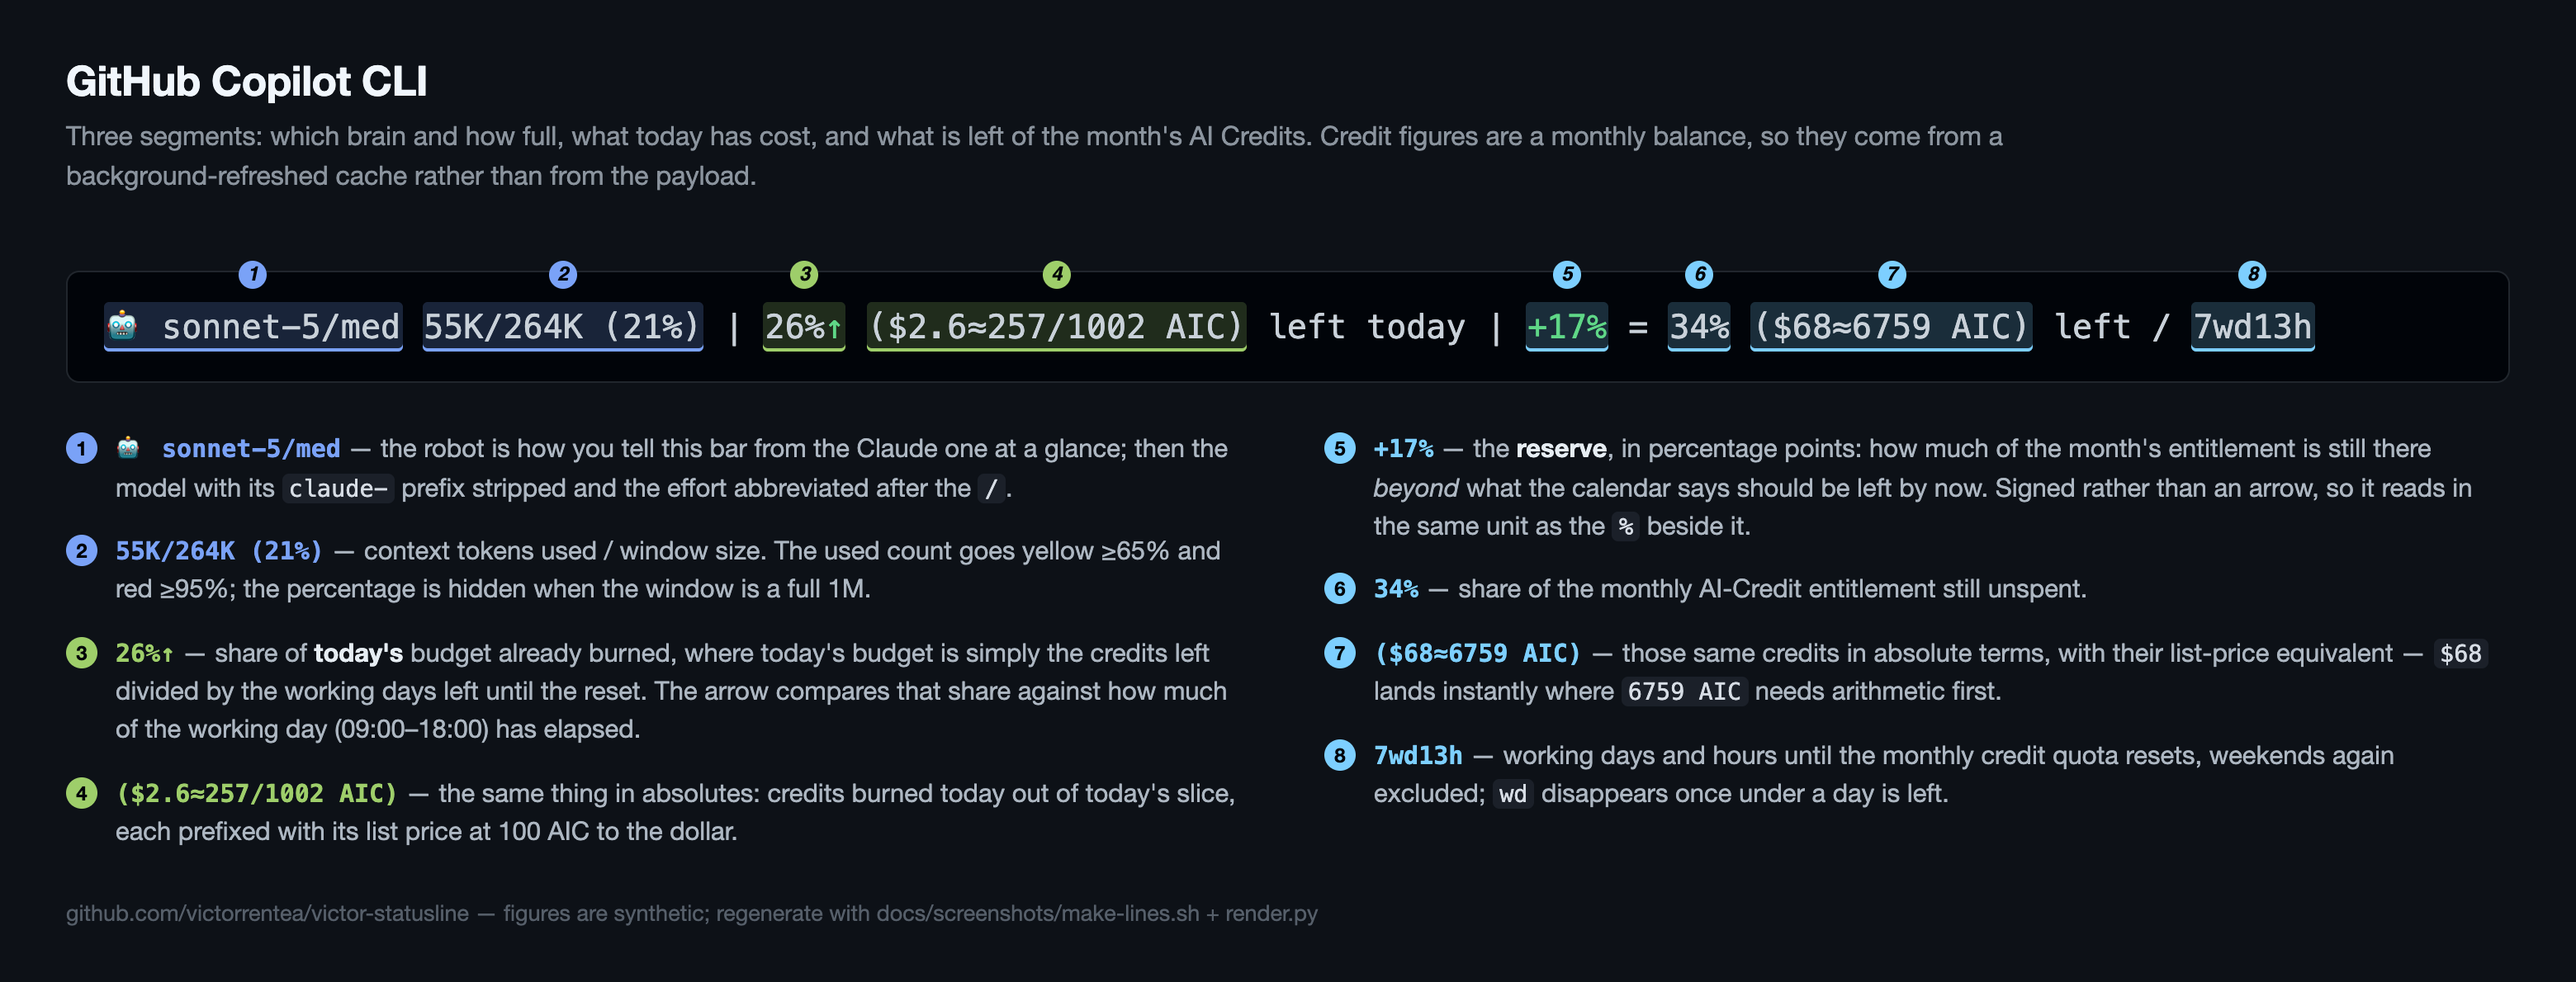
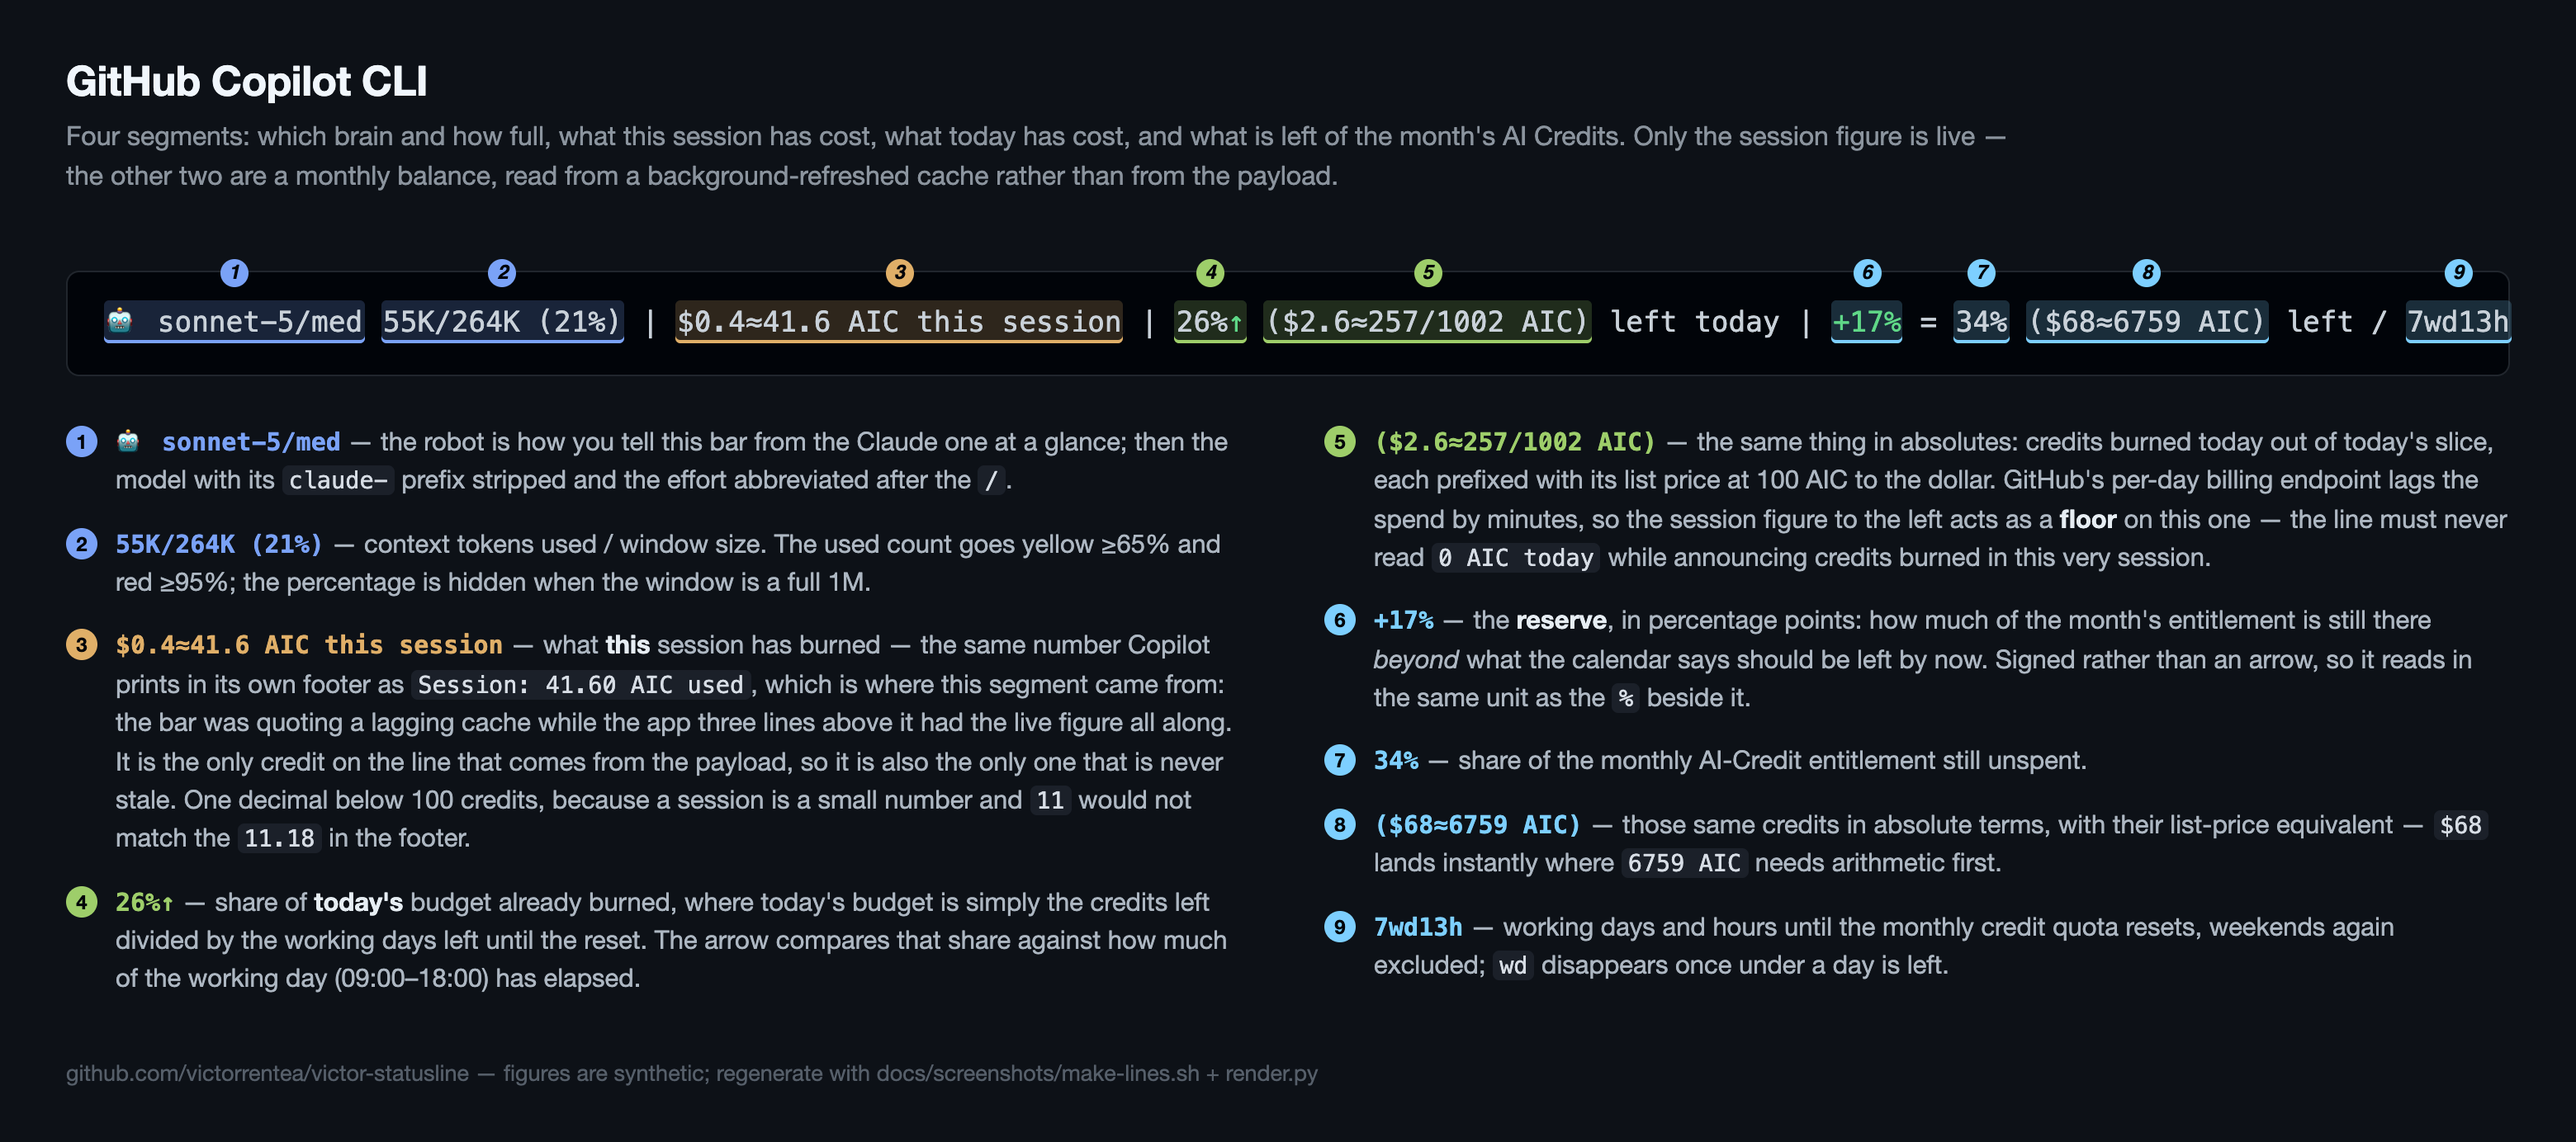
copilot: show this session's AI-Credit burn on the bar
Copilot CLI has been putting the session's own credit spend in the
status-line payload all along (`ai_used.total_nano_aiu`, the number it
prints in its own footer as "Session: 11.18 AIC used") and the bar was
throwing it away — so the bar could sit at "0 AIC today" while the app
three lines above it showed eleven credits burned.

It is the only LIVE credit figure available to the line: the two
segments after it come from a cache that quota-refresh.sh only fills
while a session is rendering, plus GitHub's per-day billing endpoint,
which lags the spend by minutes. So the session figure also acts as a
floor on "today" — guarded by the session's wall-clock age, since a
session running since yesterday would otherwise book yesterday's
credits onto today.

Credits below 100 now print one decimal (both here and in the "today"
absolutes): a session is a small number, and rounding 11.18 to "11"
would make the bar disagree with the footer it is quoting.

While regenerating the screenshots: the longer line ran off the right
edge of copilot.png, clipped with no warning, so render.py now sizes
the bar's type to fit the card instead of hardcoding 20px. That
re-render also picked up a genuinely stale Claude picture — the
"expiring" row's 300K had been blue since the colour ramp changed,
while the note beside it already said orange.

diff --git a/docs/screenshots/render.py b/docs/screenshots/render.py
@@ -17,6 +17,7 @@ import html
 import pathlib
 import re
 import sys
+import unicodedata
 
 HERE = pathlib.Path(__file__).resolve().parent
 LINES = HERE / "lines"
@@ -81,6 +82,12 @@ def parse_ansi(raw):
 # --- what each field means -------------------------------------------------
 # (regex, colour-group, explanation). The colour group ties a field to its
 # segment, so the eye can see at a glance which numbers belong together.
+# Card 1560 - card padding 2x40 - .term padding 2x22 - .term border 2x1.
+TERM_PX = 1434
+# SF Mono advances 0.6 em per cell; the fit below is a calculation, not a probe,
+# so it has to know that ratio.
+MONO_ADVANCE = 0.6
+
 GROUPS = {"model": "#7aa2f7", "5h": "#9ece6a", "spend": "#e0af68",
           "loc": "#bb9af7", "week": "#7dcfff"}
 
@@ -295,9 +302,10 @@ SPECS = [
     dict(
         src="copilot", out="copilot.png",
         title="GitHub Copilot CLI",
-        subtitle="Three segments: which brain and how full, what today has cost, and "
-                 "what is left of the month's AI Credits. Credit figures are a monthly "
-                 "balance, so they come from a background-refreshed cache rather than "
+        subtitle="Four segments: which brain and how full, what this session has "
+                 "cost, what today has cost, and what is left of the month's AI "
+                 "Credits. Only the session figure is live \u2014 the other two are a "
+                 "monthly balance, read from a background-refreshed cache rather than "
                  "from the payload.",
         fields=[
             (r"🤖 sonnet-5/med", "model",
@@ -307,14 +315,27 @@ SPECS = [
             (r"\d+K/\d+K \(\d+%\)", "model",
              "context tokens used / window size. The used count goes yellow ≥65% and red "
              "≥95%; the percentage is hidden when the window is a full 1M."),
+            (r"\$[\d.]+≈[\d.]+ AIC this session", "spend",
+             "what <b>this</b> session has burned — the same number Copilot prints in "
+             "its own footer as <code>Session: 41.60 AIC used</code>, which is where "
+             "this segment came from: the bar was quoting a lagging cache while the "
+             "app three lines above it had the live figure all along. It is the only "
+             "credit on the line that comes from the payload, so it is also the only "
+             "one that is never stale. One decimal below 100 credits, because a "
+             "session is a small number and <code>11</code> would not match the "
+             "<code>11.18</code> in the footer."),
             (r"\d+%[↑↗↘↓]?(?= \()", "5h",
              "share of <b>today's</b> budget already burned, where today's budget is "
              "simply the credits left divided by the working days left until the reset. "
              "The arrow compares that share against how much of the working day "
              "(09:00–18:00) has elapsed."),
-            (r"\(\$[\d.]+≈\d+/\d+ AIC\)", "5h",
+            (r"\(\$[\d.]+≈[\d.]+/\d+ AIC\)", "5h",
              "the same thing in absolutes: credits burned today out of today's slice, "
-             "each prefixed with its list price at 100 AIC to the dollar."),
+             "each prefixed with its list price at 100 AIC to the dollar. GitHub's "
+             "per-day billing endpoint lags the spend by minutes, so the session "
+             "figure to the left acts as a <b>floor</b> on this one — the line must "
+             "never read <code>0 AIC today</code> while announcing credits burned in "
+             "this very session."),
             (r"[+-]\d+%(?= =)", "week",
              "the <b>reserve</b>, in percentage points: how much of the month's "
              "entitlement is still there <i>beyond</i> what the calendar says should be "
@@ -347,8 +368,8 @@ h1 { font-size: 25px; margin: 0 0 6px; color: #f0f6fc; font-weight: 600; letter-
 .cap { font-size: 13.5px; line-height: 1.4; color: #6e7681; margin: 0 0 25px;
        font-family: -apple-system, sans-serif; }
 .cap b { color: #d7dde5; font-weight: 600; font-size: 14.5px; margin-right: 7px; }
-.line { font-family: "SF Mono", Menlo, monospace; font-size: 20px; line-height: 1.5;
-        white-space: pre; color: #c9d1d9; }
+.line { font-family: "SF Mono", Menlo, monospace; font-size: var(--lfs, 20px);
+        line-height: 1.5; white-space: pre; color: #c9d1d9; }
 .fld { position: relative; border-radius: 3px; padding: 3px 1px;
        background: color-mix(in srgb, var(--c) 20%, transparent);
        box-shadow: inset 0 -2px 0 0 var(--c); }
@@ -385,11 +406,14 @@ def build(spec):
     rows = spec.get("rows") or [{"src": spec["src"], "fields": spec["fields"]}]
     n = 0
     row_html, legend_items = [], []
+    widest = 0          # printable columns of the longest row, for the type size
 
     for row in rows:
         raw = (LINES / f"{row['src']}.ansi").read_text()
         cells = parse_ansi(raw)
         plain = "".join(c[0] for c in cells)
+        widest = max(widest, sum(2 if unicodedata.east_asian_width(ch) in "WF" else 1
+                                 for ch in plain))
 
         # Locate every annotated field, then check the marks do not overlap: a
         # bad regex silently swallowing a neighbour is the one failure mode
@@ -450,10 +474,16 @@ def build(spec):
         f'<span class="k">{html.escape(txt)}</span> — {desc}</li>'
         for _, _, num, c, desc, txt in legend_items
     )
+    # The bar is set at 20px unless it would not fit, and then only as small as it
+    # has to be. A line that overflows the card is clipped by the PNG with no
+    # warning at all -- adding one segment to the Copilot bar silently cut the
+    # reset clock off the right edge -- and a clipped picture is exactly the
+    # stale-documentation failure the regex check exists to prevent.
+    fs = min(20.0, TERM_PX / (MONO_ADVANCE * max(1, widest)))
     note = f'<p class="note">{spec["note"]}</p>' if spec.get("note") else ""
     cols = ' style="columns:1"' if spec.get("one_column") else ""
     return f"""<!doctype html><meta charset="utf-8"><style>{CSS}</style>
-<div class="card">
+<div class="card" style="--lfs:{fs:.1f}px">
   <h1>{spec['title']}</h1>
   <p class="sub">{spec['subtitle']}</p>
   <div class="term">{''.join(row_html)}</div>

diff --git a/copilot/victor-copilot-statusline.md b/copilot/victor-copilot-statusline.md
@@ -3,21 +3,34 @@
 A rich one-line status bar for **GitHub Copilot CLI**. Example:
 
 ```
-🤖 opus-5/high 55K/264K (21%) | 21%↗ ($2.3≈225/1048 AIC) left today | +15% = 98% ($197≈19694 AIC) left / 19wd8h
+🤖 opus-5/high 55K/264K (21%) | $0.4≈41.6 AIC this session | 21%↗ ($2.3≈225/1048 AIC) left today | +15% = 98% ($197≈19694 AIC) left / 19wd8h
 ```
 
-Three ` | `-separated segments:
+Four ` | `-separated segments:
 
 1. **model/effort context** — model name (the `claude-` prefix stripped), the
   reasoning effort abbreviated after a `/`, and **used/limit** context tokens.
   The used-token count turns **yellow ≥65%** and **red ≥95%** of the window. The
   `(%)` is shown only when the window isn't the full 1M.
-2. **today** — share of *today's* budget already burned, a pace arrow, and the
+2. **this session** — the credits *this* conversation has burned so far, the
+   same number Copilot prints in its own footer as `Session: 11.18 AIC used`.
+   It is the **only live credit figure on the line**: it arrives in the payload
+   on every render, while the two segments after it are read from a cache that
+   is refreshed in the background *only while a session is rendering*, so on a
+   session left idle they can sit an hour behind. Shown to one decimal below
+   100 credits — a session is a small number, and rounding 11.18 down to `11`
+   would make the bar disagree with the footer three lines above it.
+3. **today** — share of *today's* budget already burned, a pace arrow, and the
    absolutes in parentheses: `($ ≈ burned/budget AIC)`. Today's budget is
    "credits left at the start of today ÷ working days left until the reset",
    recomputed daily, so an overshoot never carries a debt — tomorrow simply gets
-   a smaller slice.
-3. **AI Credits** — a signed **reserve** in percentage points (working time
+   a smaller slice. The burn itself comes from GitHub's per-day billing
+   endpoint, which lags the spend by minutes, so **segment 2 acts as a floor on
+   it**: the line must never read `0 AIC today` while announcing credits burned
+   in this very session. The floor only applies to a session that *started*
+   today — checked against its wall-clock age — since an older one would be
+   booking yesterday's credits onto today.
+4. **AI Credits** — a signed **reserve** in percentage points (working time
    elapsed − credits burned), the `% left`, the absolutes `($ ≈ N AIC)`, then the
    **working** days + hours until the monthly quota resets (weekends excluded).
 
@@ -65,10 +78,13 @@ The fields we use:
 | `model.display_name` (e.g. `claude-opus-4.8 · high · 1M context`) | model · effort segment |
 | `context_window.current_context_tokens` | used tokens |
 | `context_window.displayed_context_limit` | window size |
+| `ai_used.total_nano_aiu` (credits × 10⁹, e.g. `11177320000`) | this session's burn |
+| `cost.total_duration_ms` | session age, guarding the "today" floor |
 
 The **monthly AI-Credit balance and reset date are NOT in that payload.** They
 come from `gh api copilot_internal/user`, cached to `~/.copilot/quota-cache.json`
-and refreshed in the background (max once / 15 min) so rendering stays instant.
+and refreshed in the background (at most once a minute, `TTL` in the script) so
+rendering stays instant.
 The relevant snapshot is `quota_snapshots.premium_interactions`
 (`remaining`, `percent_remaining`) plus `reset_utc` / `reset_date`.
 
@@ -79,12 +95,19 @@ The relevant snapshot is `quota_snapshots.premium_interactions`
 ```bash
 #!/usr/bin/env bash
 # Copilot CLI status line. Example output:
-#   🤖 sonnet-5/med 55K/264K (21%) | 74%↗ ($2.6≈257/345 AIC) left today | +3% = 95% ($66≈6646 AIC) left / 20wd7h
+#   🤖 sonnet-5/med 55K/264K (21%) | $0.4≈41.6 AIC this session | 74%↗ ($2.6≈257/345 AIC) left today | +3% = 95% ($66≈6646 AIC) left / 20wd7h
 #
 #   • model: display_name with the "claude-" prefix stripped, the reasoning
 #     effort abbreviated after a "/" (medium→med, xhigh, max…) and the
 #     " · N context" tail replaced by "<used>/<limit>" context tokens (used
 #     count coloured yellow ≥65% / red ≥95%; % hidden when the window is 1M).
+#   • session: what THIS session has burned so far — the only live credit
+#     figure on the line, and the one Copilot itself prints in its footer as
+#     "Session: 11.18 AIC used". It arrives in the payload on every render,
+#     whereas the two segments after it come from a cache that is only
+#     refreshed while a session is busy, so they can sit hours behind. Shown to
+#     one decimal below 100 credits: a session is a small number, and rounding
+#     11.18 to "11" would make the bar disagree with Copilot's own footer.
 #   • today: share of today's budget already burned + ($ ≈ burned/budget AIC),
 #     where the budget is simply "credits left at the start of today ÷ working
 #     days left until the reset". Because it is recomputed from the CURRENT
@@ -187,6 +210,14 @@ def usd(credits):
     except (TypeError, ValueError, ZeroDivisionError): return None
     return f"${v:.1f}" if v < 10 else f"${v:.0f}"
 
+def aic(credits):
+    """Credits themselves: one decimal below 100, whole above. A session burns
+    single digits, where the decimal is the whole signal; a monthly balance
+    burns thousands, where it is noise."""
+    try: v = float(credits)
+    except (TypeError, ValueError): return None
+    return f"{v:.1f}" if abs(v) < 100 else f"{v:.0f}"
+
 # ANSI colours (used-token count, pace arrow, reserve) — mirrors victor-claude-statusline.md
 CLR_RESET = "\033[0m"
 CLR_RED   = "\033[31m"
@@ -229,6 +260,22 @@ if isinstance(model, str):
         label = f"{label} {ctx}"
     model = label
 parts.append(f"🤖 {model}")
+
+# --- this session's own credit burn ---------------------------------------
+# The one LIVE credit figure on the line. Copilot ships it in the payload on
+# every render (the same number its own footer shows as "Session: 11.18 AIC
+# used"), while everything after this segment comes from a background cache
+# that is only refreshed while a session is rendering — so on an idle session
+# the monthly figures can be an hour stale and this one is never stale at all.
+# Counted in nano-credits, because 11.17732 AIC has no float representation
+# worth trusting and GitHub sends the integer.
+session_credits = None
+nano = find(d, "total_nano_aiu", "totalNanoAiu")
+if nano is not None:
+    try: session_credits = float(nano) / 1e9
+    except (TypeError, ValueError): session_credits = None
+if session_credits is not None:
+    parts.append(f"{usd(session_credits)}≈{aic(session_credits)} AIC this session")
 
 # --- AI Credits remaining, reserve, working-days to reset ------------------
 q = {}
@@ -319,8 +366,22 @@ if isinstance(snap, dict) and not snap.get("unlimited"):
            and snap.get("credits_used") is not None:
             today_used = max(0.0, float(snap["credits_used"]) - float(base["month_used_at_start"]))
 
+# A session that started today has certainly spent its credits today, so its
+# live figure is a FLOOR for the day's burn. Without it the line can contradict
+# itself — "11.2 AIC this session" sitting next to "0 AIC today" — because the
+# per-day billing endpoint lags the spend by minutes and the cache in front of
+# it only refreshes while a session is rendering. Guarded by the session's
+# wall-clock age: one running since yesterday would book yesterday's credits
+# onto today.
+if today_used is not None and session_credits is not None and session_credits > today_used:
+    age_ms = find(d, "total_duration_ms", "totalDurationMs")
+    try: started = lnow - timedelta(milliseconds=float(age_ms))
+    except (TypeError, ValueError): started = None
+    if started is not None and started.date() == lnow.date():
+        today_used = session_credits
+
 if today_used is not None:
-    seg = f"{usd(today_used)}≈{today_used:.0f} AIC today"
+    seg = f"{usd(today_used)}≈{aic(today_used)} AIC today"
     rem = snap.get("remaining")
     wdl = working_days_left(lnow, reset_dt.astimezone().date()) if reset_dt else 0
     # On a weekend there is no daily budget to measure against — just the raw burn.
@@ -339,7 +400,7 @@ if today_used is not None:
             arrow = pace_arrow(99.0 if frac <= 0 else elapsed / frac)
             # Percentage first, absolutes in parentheses: the share is the glance,
             # the raw credits (and what they cost) are the detail you read second.
-            seg = f"{pct}{arrow} ({usd(today_used)}≈{today_used:.0f}/{budget:.0f} AIC) left today"
+            seg = f"{pct}{arrow} ({usd(today_used)}≈{aic(today_used)}/{budget:.0f} AIC) left today"
     parts.append(seg)
 
 # --- working days + hours until the reset (weekends excluded) -------------

diff --git a/CLAUDE.md b/CLAUDE.md
@@ -87,6 +87,14 @@ it — do not work around it. It had been failing silently on `\d+K/1M` (the Opu
 1M window stopped printing its denominator) and on `(miss=$…)`, which means the
 pictures had been stale through several bar changes before anyone re-ran it.
 
+The bar's type size is **computed to fit**, not fixed: `build()` measures the
+longest row in printable columns and shrinks `--lfs` below 20px only when the
+line would otherwise run past the card. Adding the Copilot session segment had
+silently clipped the reset clock off the right edge of `copilot.png` — an
+overflowing line is cropped by the PNG without a word of warning, which is the
+same stale-picture failure the regex check exists to catch. Don't hand-tune font
+sizes; add the segment and re-render.
+
 `make-lines.sh` needs no terminal: the Copilot line's width comes from
 `COPILOT_STATUSLINE_COLS`, forced to 0 there, because that script otherwise sizes
 itself off `/dev/tty` and an agent-run generator produced a picture of a line
